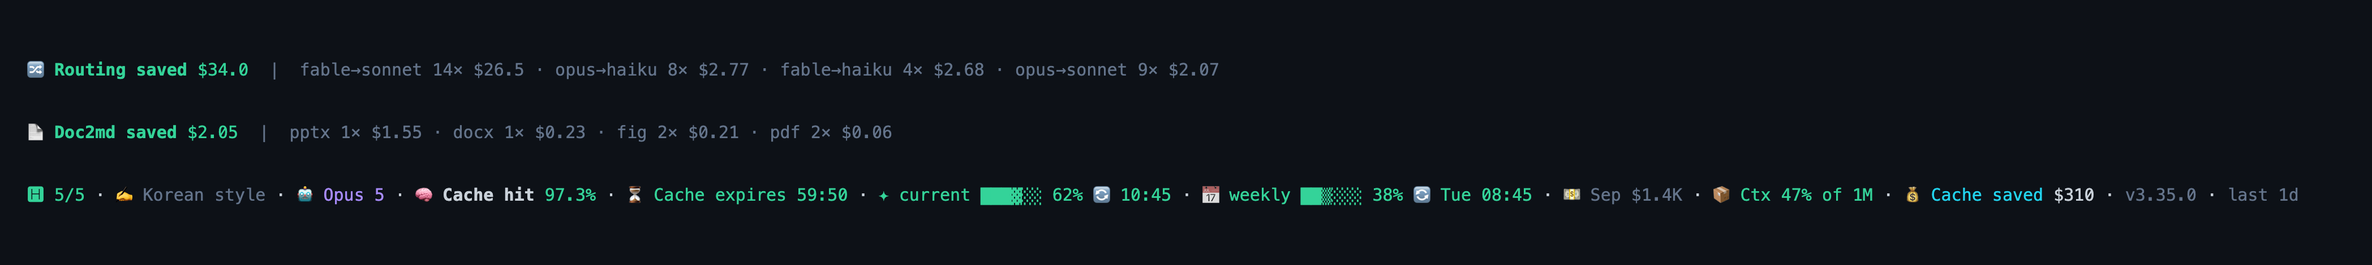
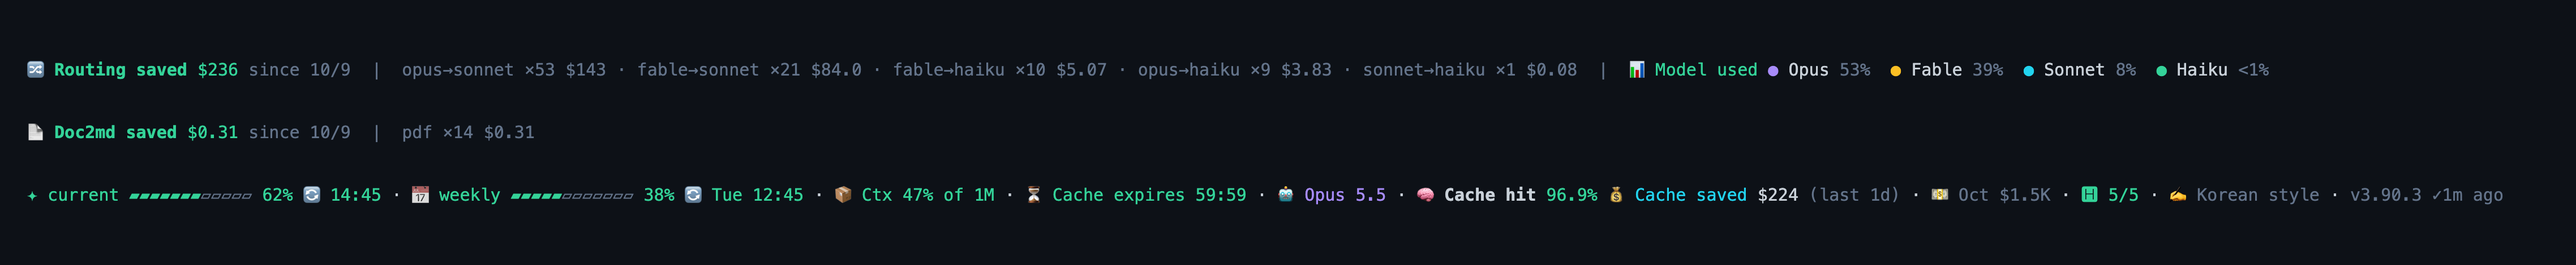
docs(statusline): recapture the Claude Code statusline with spend by model
The site's hero capture and the README image were taken at v3.58.0, before
the 'Model used' share joined the routing line. Both are regenerated from
the real statusline. The capture now leaves out the team chip, which
prints this machine's member id, along with the spike chip it already
skipped.

Changed region(s): [[0.0, 0.6851, 0.9688, 0.7745], [0.0, 0.2383, 0.875, 0.2979], [0.0, 0.4766, 0.375, 0.5362]]

diff --git a/site/index.html b/site/index.html
@@ -748,7 +748,7 @@
           <span class="shot-hint" data-k="hero.enlarge">Tap to enlarge</span>
         </div>
         <div id="capture-claude" class="shot" role="tabpanel" aria-labelledby="demo-claude">
-          <a href="assets/statusline-claude.png" target="_blank" rel="noopener"><img class="terminal-shot" src="assets/statusline-claude.png" width="1200" height="330" alt="Claude Code statusline with routing and document accounting" /></a>
+          <a href="assets/statusline-claude.png" target="_blank" rel="noopener"><img class="terminal-shot" src="assets/statusline-claude.png" width="1200" height="290" alt="Claude Code statusline with routing savings, spend by model, and document accounting" /></a>
           <span class="shot-hint" data-k="hero.enlarge">Tap to enlarge</span>
         </div>
       </div>

diff --git a/README.ko.md b/README.ko.md
@@ -63,7 +63,7 @@ pnpm이나 bun처럼 패키지 관리자가 설치 스크립트를 건너뛰면,
 🧠 Cache hit 98.8% · ⏳ Cache expires 59:46 · 📦 Ctx 47% of 1M
 ```
 
-![statusline 예시. 첫 줄은 라우팅 절감액, 둘째 줄은 문서 변환 절감액, 셋째 줄은 진단 칩입니다](https://raw.githubusercontent.com/rootstudioyaml/sprag/main/docs/statusline.png)
+![statusline 예시. 첫 줄은 라우팅 절감액과 모델별 사용 비중, 둘째 줄은 문서 변환 절감액, 셋째 줄은 진단 칩입니다](https://raw.githubusercontent.com/rootstudioyaml/sprag/main/docs/statusline.png)
 
 Sprag는 사용자가 고른 모델을 바꾸지 않습니다. 분석은 로컬 세션 기록만 읽으며,
 추가 모델 호출이나 API 키가 필요하지 않습니다. `sprag uninstall` 은 설치 때

diff --git a/README.md b/README.md
@@ -79,7 +79,7 @@ If your package manager skips install scripts (pnpm, bun), run `sprag install` o
 🧠 Cache hit 98.8% · ⏳ Cache expires 59:46 · 📦 Ctx 47% of 1M
 ```
 
-![statusline example: routing savings on row 1, document conversion savings on row 2, diagnostics on row 3](https://raw.githubusercontent.com/rootstudioyaml/sprag/main/docs/statusline.png)
+![statusline example: routing savings and the share of spend by model on row 1, document conversion savings on row 2, diagnostics on row 3](https://raw.githubusercontent.com/rootstudioyaml/sprag/main/docs/statusline.png)
 
 Sprag never swaps the model you picked. Analysis reads your local session
 logs only, with no extra model calls and no API key. `sprag uninstall` removes
